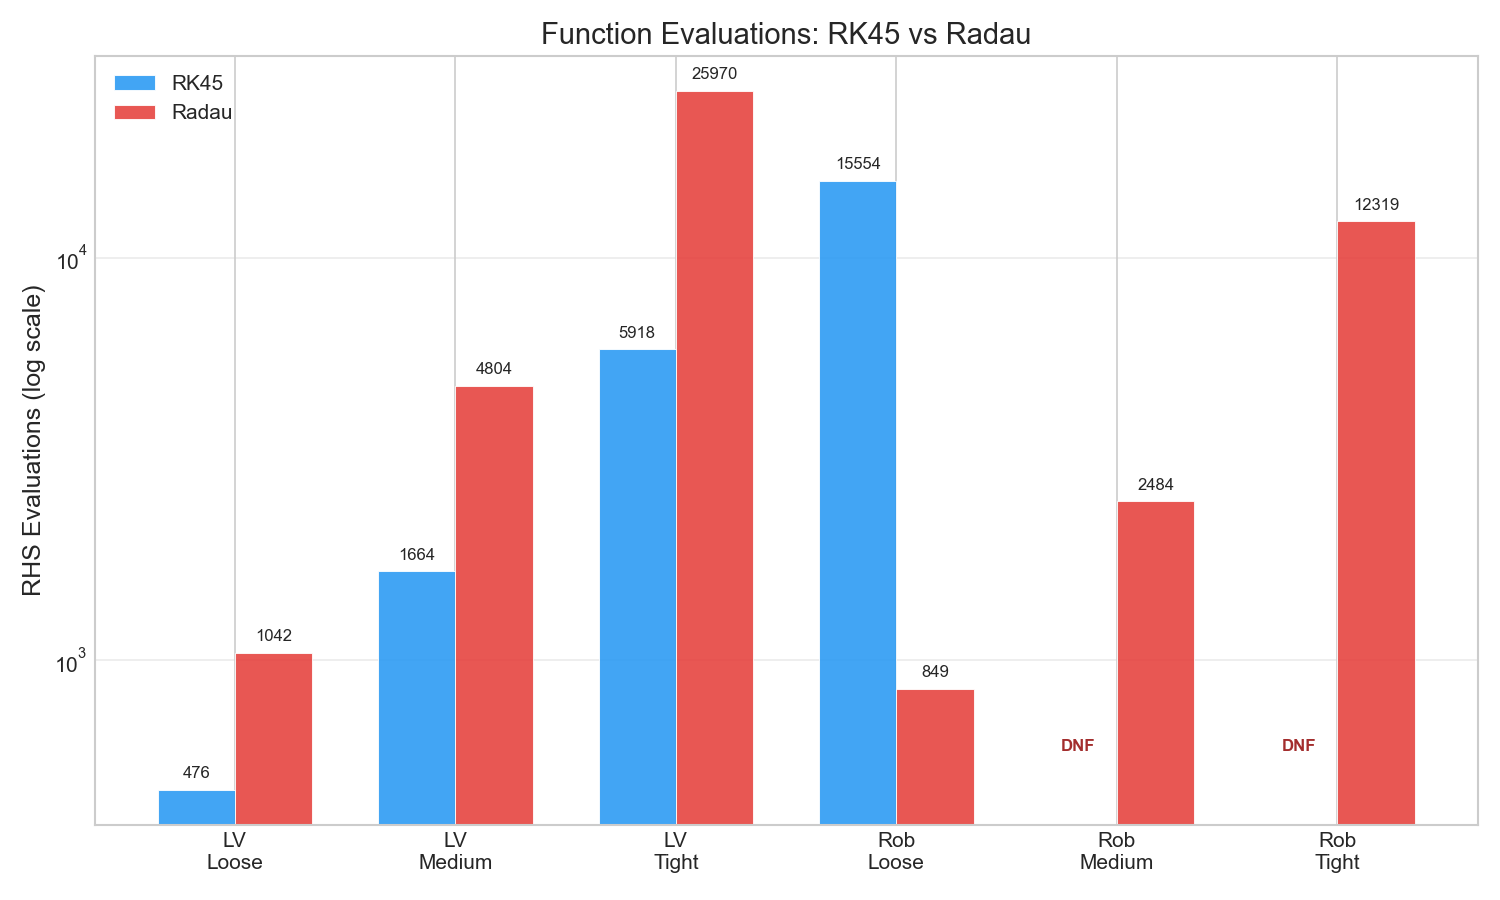
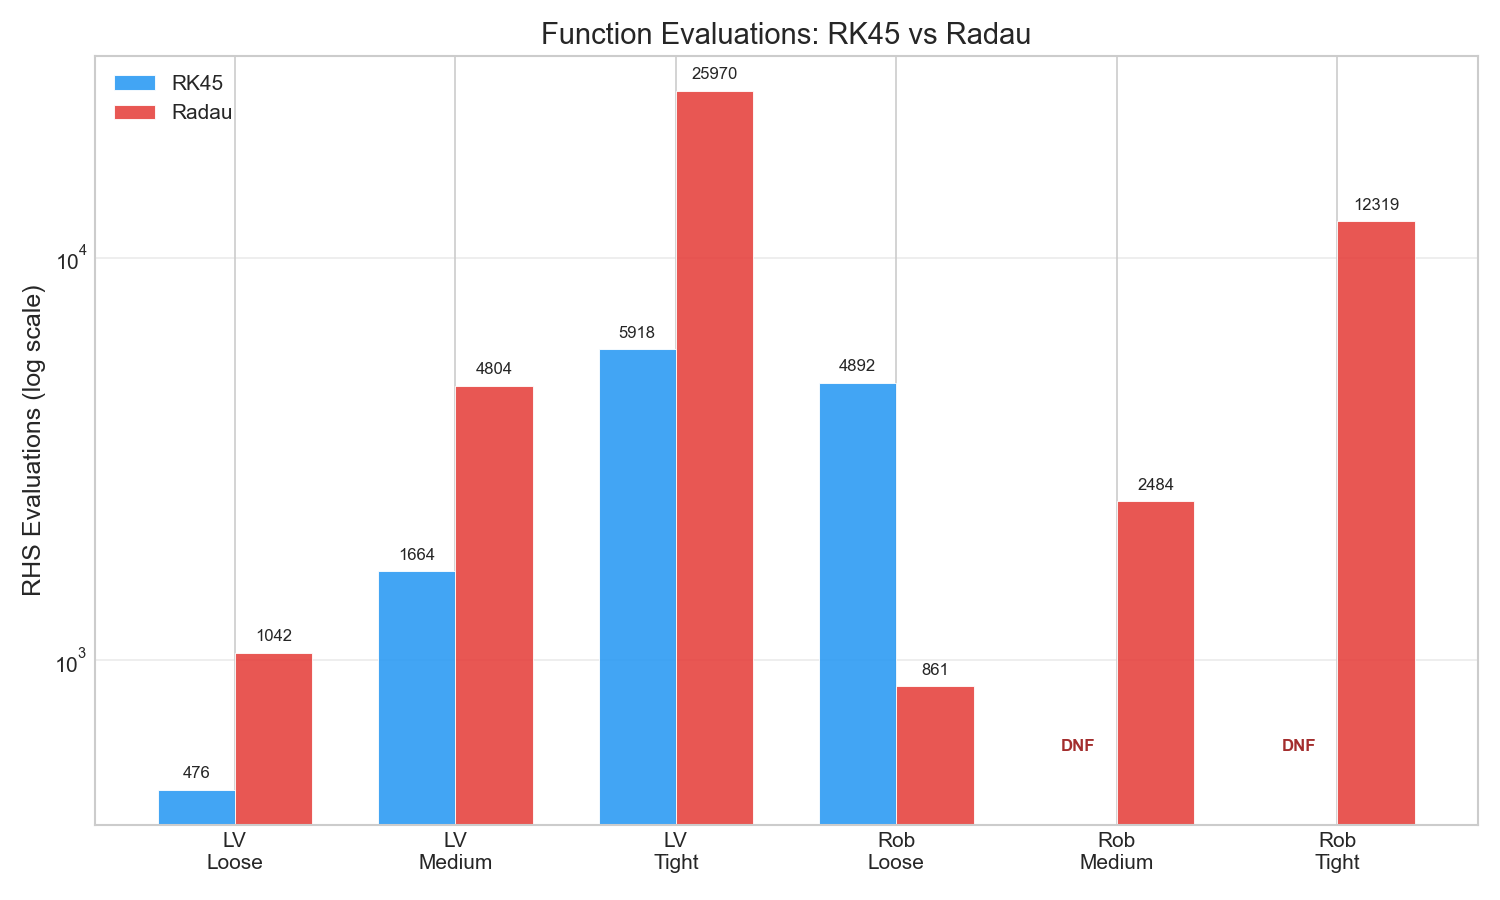
Refresh benchmark outputs and problem definition

Changed region(s): [[0.5213, 0.1556, 0.6133, 0.4356], [0.6133, 0.7156, 0.644, 0.7778]]

diff --git a/problems.py b/problems.py
@@ -34,7 +34,7 @@ ROB_K2 = 1e4
 ROB_K3 = 3e7
 
 ROB_Y0     = [1.0, 0.0, 0.0]
-ROB_T_SPAN = (0.0, 1e11)
+ROB_T_SPAN = (1e-5, 1e11)
 ROB_T_EVAL = np.logspace(-5, 11, 500)  # log-spaced: solution evolves over 16 decades
 
 
